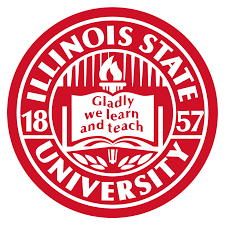
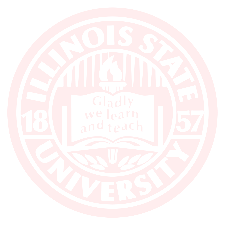
Add files via upload

diff --git a/assignment4.html b/assignment4.html
@@ -1,0 +1,34 @@
+<!DOCTYPE html>
+<html lang="en">
+  <head>
+    <meta charset="UTF-8">
+    <title>Assignment 3</title>
+    <link href="2.css" rel="stylesheet" type="text/css">
+  </head>
+  <body class="customtext">
+    <nav>
+    <ul>
+      <li><a href="assignment3.html">Main</a></li>
+      <li><a href="RequirementInformationandSequenceDescriptions.html">Requirements</a></li>
+      <li><a href="CTKCourses.html">Classes</a></li>
+    </ul>
+    </nav>
+
+    <header>
+    <h1 class="red">Creative Technologies Program (CTK)</h1>
+    <img class="imgbox" src="1.png" alt="Illinois State University" >
+    </header>
+
+   <main>
+    <p><b>Addreess:</b>Campus Box 5750 <br>
+    <b>Phone:</b> (309) 438-2875<br>
+    <b>Director:</b> Rose Marshack <br>
+    <b>Degrees Offered:</b> B.A., B.S. </p> 
+   <div id="example">
+      <h2 class="textcenter">Major in Creative Technologies</h2>
+
+     <p class="textleft ">The interdisciplinary <span class="more">Creative Technologies </span>major emphasizes design and practice in the integration of digital technologies and the fine arts. In addition to foundational study across the fine arts, the major provides training and experiences across a range of creative/technical fields including video, sound, electronic music, music production, gaming, motion graphics, interactivity, AR/VR, UI/UX, mobile, web, and computer programming concepts.</p> 
+   </div>
+   </main>
+  </body>
+    

diff --git a/2.css b/2.css
@@ -1,0 +1,34 @@
+.customtext {
+  font-family: Arial, Helvetica, sans-serif;
+}
+
+.textcenter {
+  text-align: center;
+}
+
+.textleft {
+  text-align: left;
+}
+
+h1 {
+  font-family: Arial, Helvetica, sans-serif;
+  font-style: italic;
+  color: #ff9d00;
+}
+
+h2 {
+  font-family: Arial, Helvetica, sans-serif;
+  font-style: italic;
+  color: #ff9d00;
+}
+
+.imgbox {
+  border: 2px solid #000000;
+  padding: 10px 10px 10px 10px;
+  margin: 20px 20px 20px 20px;
+  background-color: #fff203;
+}
+
+body {
+  background-image: url(3.png);
+}
